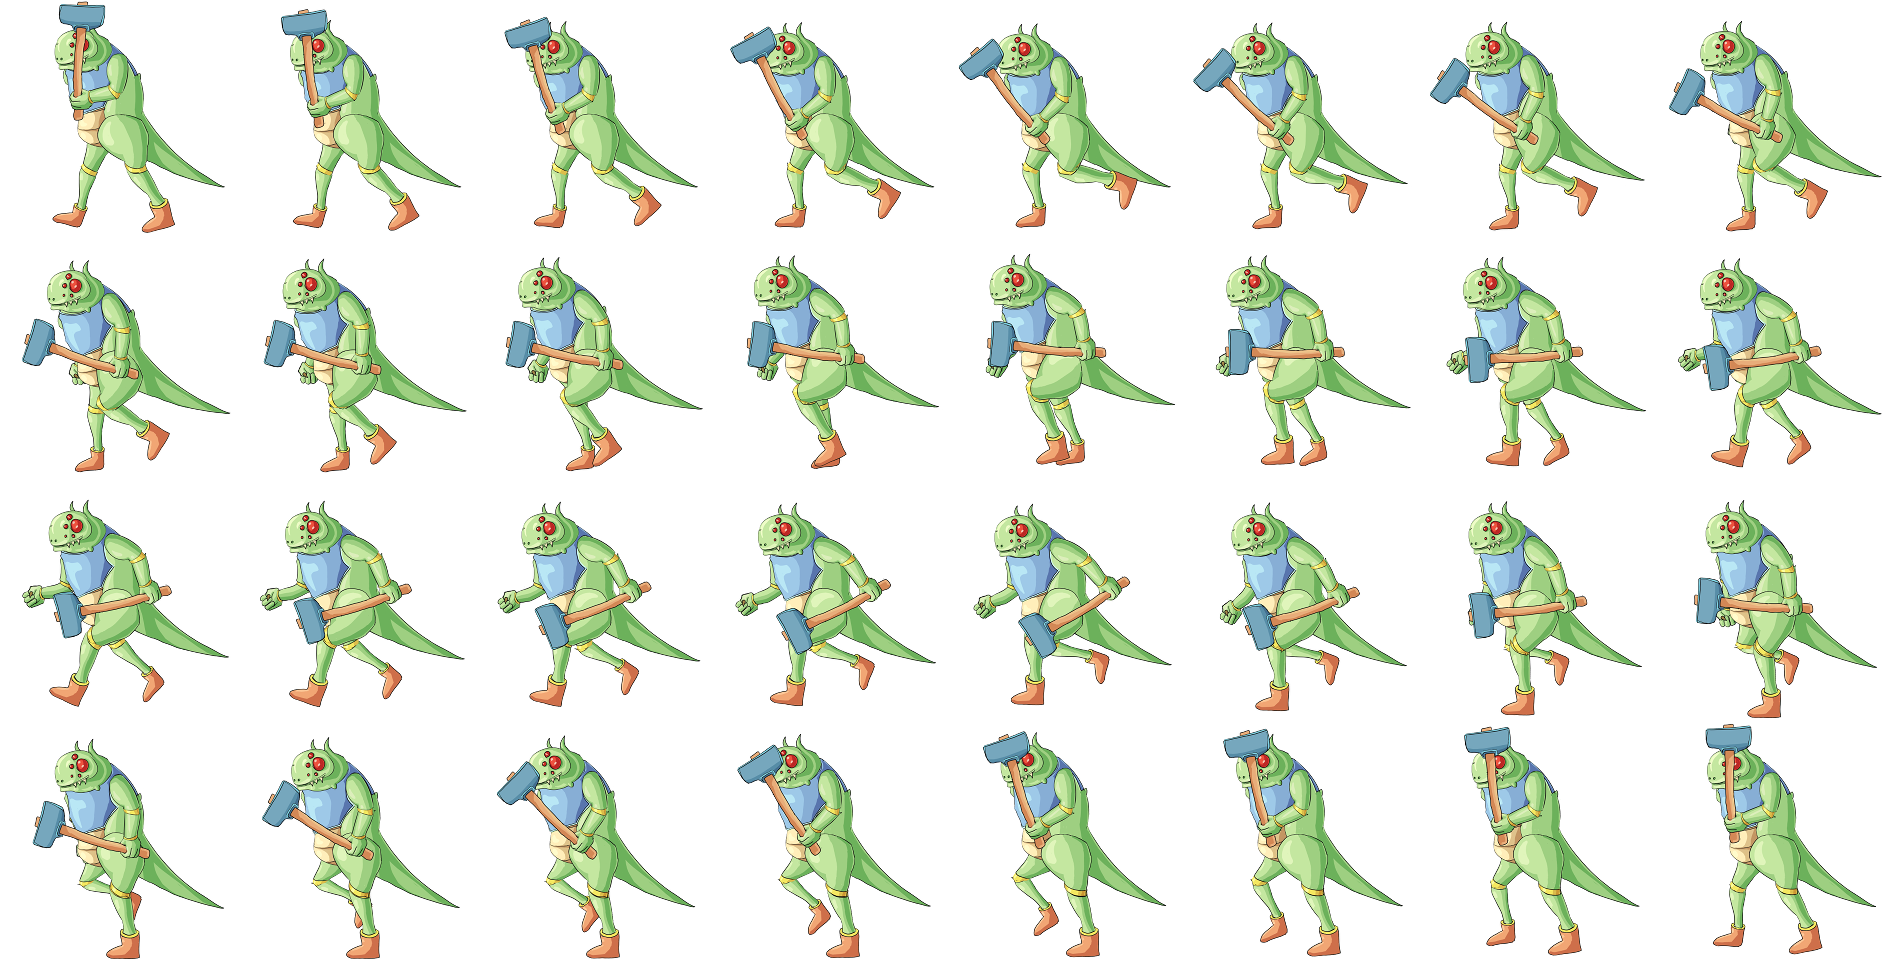
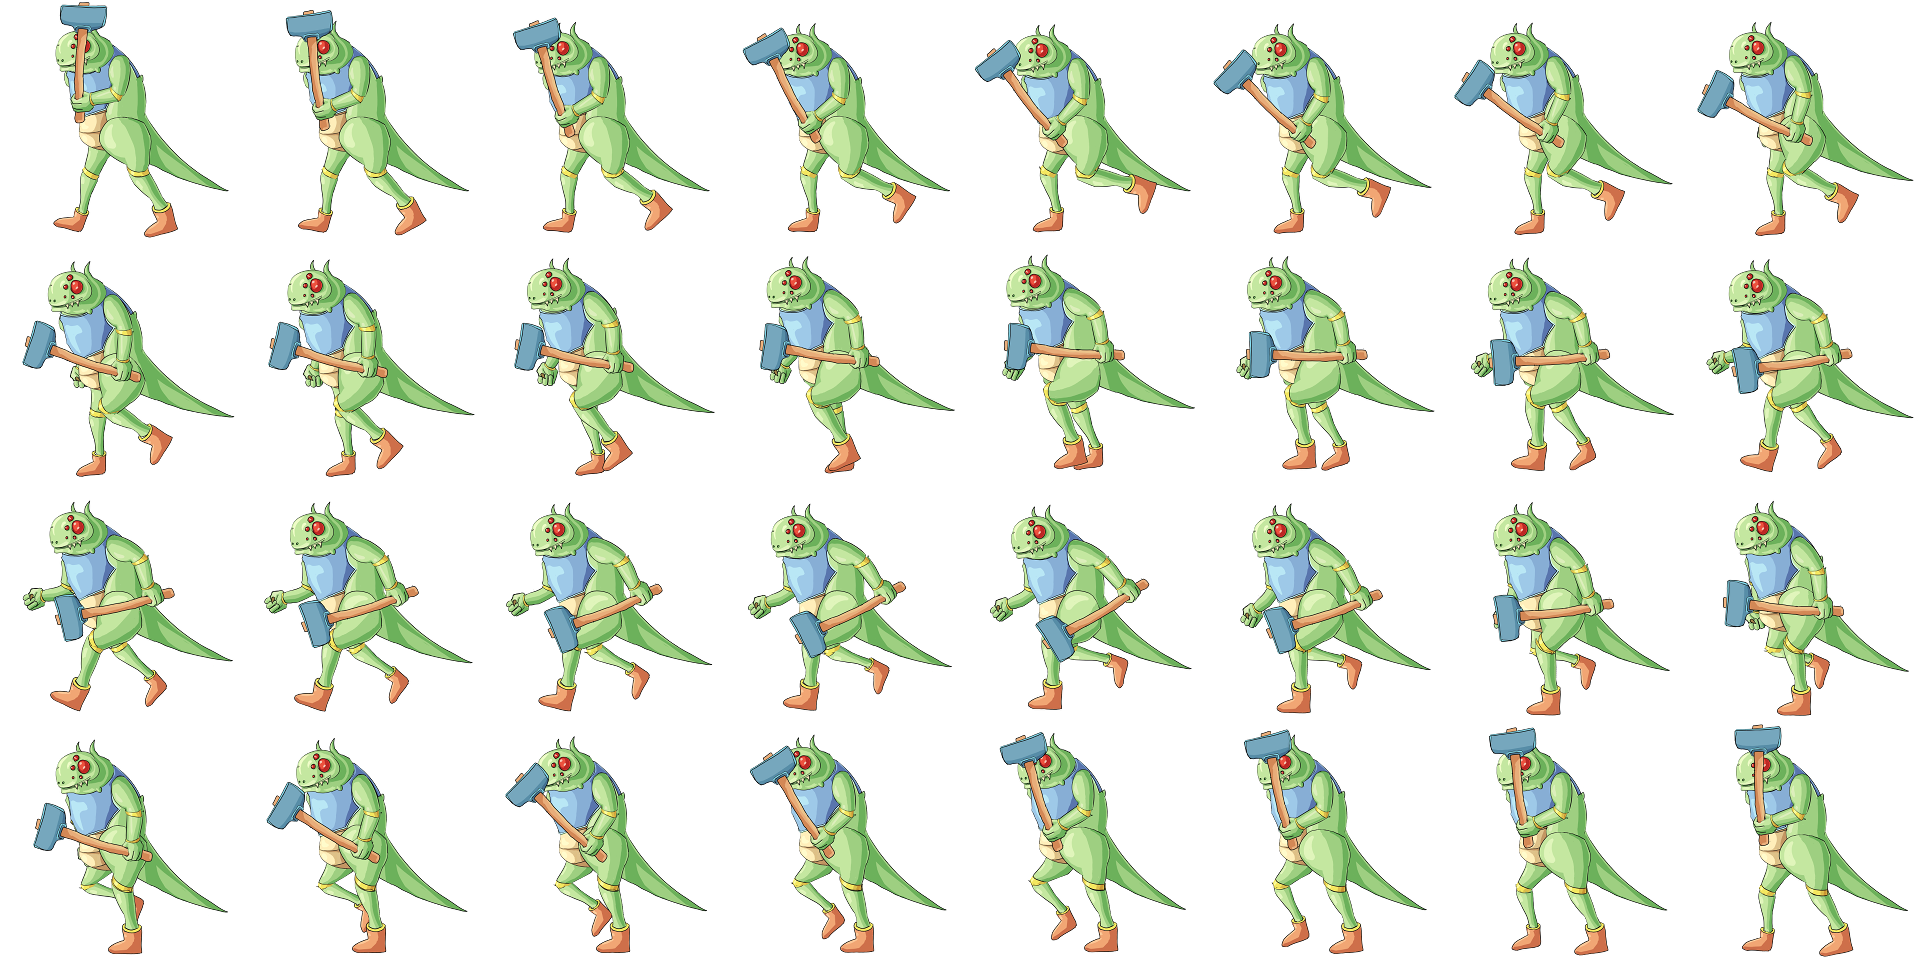
fix sprite

diff --git a/js/load.js b/js/load.js
@@ -17,7 +17,7 @@ var loadState = {
         game.load.image('platform3', 'assets/platform3.png');
         game.load.image('tree', 'assets/tree.png');
         game.load.image('groundSprite', 'assets/ground2.png');
-        game.load.spritesheet('monster', 'assets/monster_run.png', 236, 240, 32);
+        game.load.spritesheet('monster', 'assets/monster_run.png', 240, 240, 32);
         game.load.spritesheet('mushroom', 'assets/mushroom_move.png', 143, 200, 32);
         game.load.spritesheet('mushroom_death', 'assets/mushroom_death.png', 238, 200, 22);
         game.load.spritesheet('mushroom_attack', 'assets/mushroom_attack.png', 190, 200, 15);

diff --git a/js/play.js b/js/play.js
@@ -217,7 +217,7 @@ function EnemyMonster(x, y) {
     this.enemy.anchor.setTo(.5,.5)
     this.enemy.scale.x *= -1;
     game.physics.enable(this.enemy, Phaser.Physics.ARCADE);
-    this.enemy.body.setSize(236, 220);
+    this.enemy.body.setSize(236, 225);
     this.enemy.body.gravity.y = 300;
 	this.enemy.body.velocity.x = 200;
 	this.enemy.body.collideWorldBounds = true;
